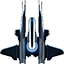
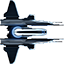
given up and rotated the ship image :P

diff --git a/core/src/com/draga/Ship/ShipPhysicComponent.java b/core/src/com/draga/Ship/ShipPhysicComponent.java
@@ -7,12 +7,14 @@ import com.draga.component.RectangularPhysicComponent;
 public class ShipPhysicComponent extends RectangularPhysicComponent
 {
     private final float rotationPerSecond = 2000f;
+    private Vector2 velocity;
 
     public ShipPhysicComponent()
     {
         super();
         this.rectangle.width = 10;
         this.rectangle.height = 10;
+        this.velocity = new Vector2();
     }
 
     @Override
@@ -21,20 +23,29 @@ public class ShipPhysicComponent extends RectangularPhysicComponent
 
     }
 
-    public void rotateTo(float x, float y, float elapsed)
+    public void applyAccelerometerForce(Vector2 accelerometerForce, float elapsed)
     {
-        // Increase the angle by 90 degrees to compensate the angle of Vector2 being calculated on the x axis
-        float forceAngle = new Vector2(y, -x).angle();
+        // If the force exceed the Earth's gravity then scale it down to it.
+        float scale = accelerometerForce.len() / Constants.EARTH_GRAVITY;
+        if (scale > 1)
+        {
+            accelerometerForce.scl(1 / scale);
+        }
+
+        applyForce(accelerometerForce);
+        rotateTo(accelerometerForce, elapsed);
+    }
+
+    public void rotateTo(Vector2 accelerometerForce, float elapsed)
+    {
+        float directionAngle = accelerometerForce.angle();
 
         // Scale the acceleration by the Earth's gravity. Moving with more strength produces faster turns.
-        // Also clamps the scale to 1 because it's possible to achieve higher accelerations by moving the device
-        // rather than just using the Earth gravity.
         // This makes it more realistic but more importantly avoids the ship flickering left and right at low speeds.
-        float scale = new Vector2(x, y).len() / Constants.EARTH_GRAVITY;
-        scale = Math.min(scale, 1);
+        float scale = accelerometerForce.len() / Constants.EARTH_GRAVITY;
 
-        double diffRotation = forceAngle - rotation;
-        // Avoid ship turning 360 when rotation close to 0 degrees
+        double diffRotation = directionAngle - rotation;
+        // Avoid the ship turning 360 when the rotation is close to 0 degrees.
         if (diffRotation < -180)
         {
             diffRotation += 360;
@@ -44,7 +55,7 @@ public class ShipPhysicComponent extends RectangularPhysicComponent
             diffRotation -= 360;
         }
 
-        // bring the rotation to the max if it's over it
+        // Bring the rotation to the max if it's over it and scales it.
         float maxTurn = rotationPerSecond * elapsed * scale;
         if (Math.abs(diffRotation) > maxTurn)
         {
@@ -52,7 +63,7 @@ public class ShipPhysicComponent extends RectangularPhysicComponent
         }
         rotation += diffRotation;
 
-        //Brings the finalRotation between 0 and 360
+        // Brings the rotation between 0 and 360
         if (rotation > 360)
         {
             rotation %= 360;

diff --git a/core/src/com/draga/Ship/ShipInputComponent.java b/core/src/com/draga/Ship/ShipInputComponent.java
@@ -2,6 +2,7 @@ package com.draga.ship;
 
 import com.badlogic.gdx.Gdx;
 import com.badlogic.gdx.Input;
+import com.badlogic.gdx.math.Vector2;
 import com.draga.component.InputComponent;
 import com.draga.component.PhysicComponent;
 import sun.reflect.generics.reflectiveObjects.NotImplementedException;
@@ -33,11 +34,7 @@ public class ShipInputComponent extends InputComponent
             default:
                 throw new NotImplementedException();
         }
-        this.shipPhysicComponent.applyForce(xAcceleration, yAcceleration);
-        this.shipPhysicComponent.rotateTo(
-            xAcceleration,
-            yAcceleration,
-            elapsed);
+        this.shipPhysicComponent.applyAccelerometerForce(new Vector2(xAcceleration, yAcceleration), elapsed);
 
 
         if (Gdx.input.isKeyPressed(Input.Keys.LEFT))

diff --git a/core/src/com/draga/Component/RectangularPhysicComponent.java b/core/src/com/draga/Component/RectangularPhysicComponent.java
@@ -1,6 +1,7 @@
 package com.draga.component;
 
 import com.badlogic.gdx.math.Rectangle;
+import com.badlogic.gdx.math.Vector2;
 
 /**
  * Created by Administrator on 03/09/2015.
@@ -38,6 +39,11 @@ public class RectangularPhysicComponent extends PhysicComponent
     {
         rectangle.x += forceX;
         rectangle.y += forceY;
+    }
+
+    public void applyForce(Vector2 force)
+    {
+        applyForce(force.x, force.y);
     }
 
     public void applyYForce(float forceY)

diff --git a/test/src/com/draga/ship/ShipPhysicComponentTest.java b/test/src/com/draga/ship/ShipPhysicComponentTest.java
@@ -15,6 +15,7 @@ public class ShipPhysicComponentTest
     public void testRotateTo() throws Exception
     {
         ShipPhysicComponent shipPhysicComponent = new ShipPhysicComponent();
+
         while (shipPhysicComponent.getRotation() != 180)
         {
             shipPhysicComponent.rotateTo(0, -Constants.EARTH_GRAVITY, 1f / 60f);

diff --git a/core/src/com/draga/Constants.java b/core/src/com/draga/Constants.java
@@ -1,5 +1,7 @@
 package com.draga;
 
+import com.badlogic.gdx.math.Vector2;
+
 /**
  * Created by Administrator on 16/09/2015.
  */
